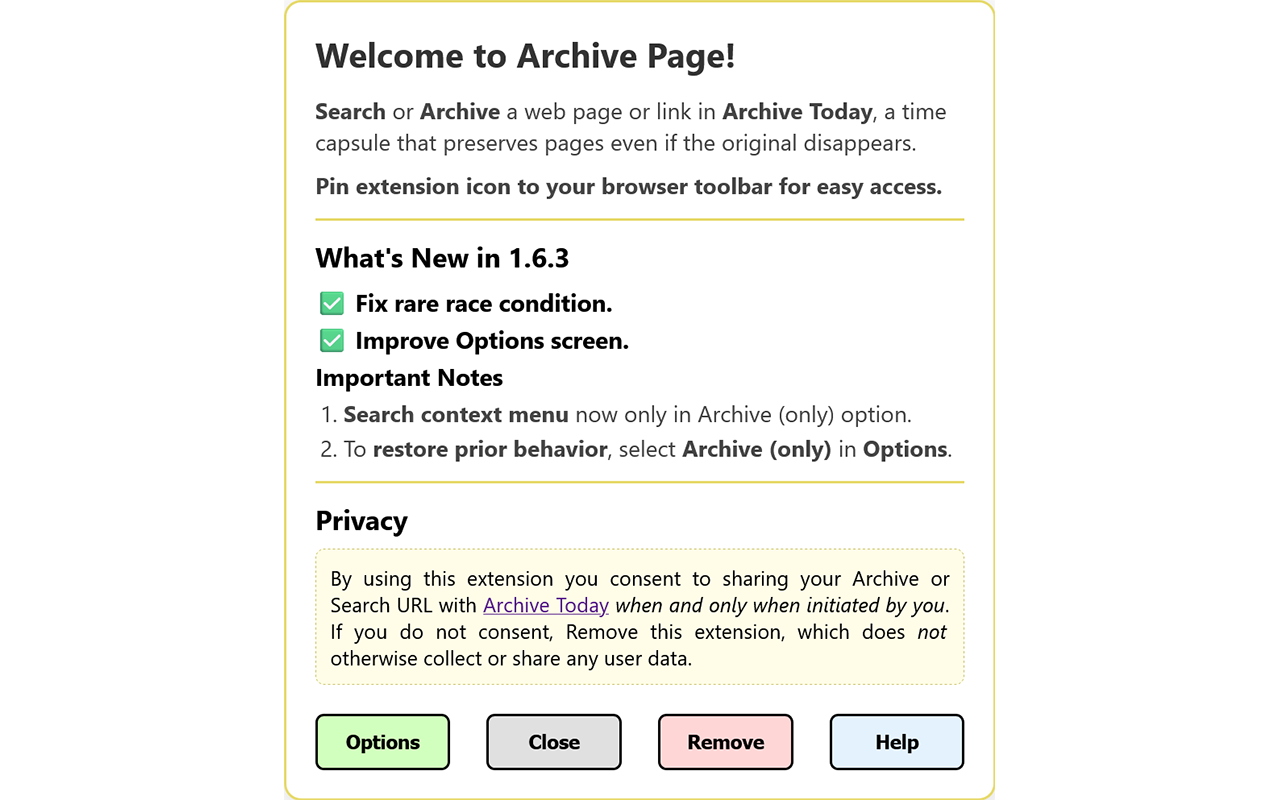
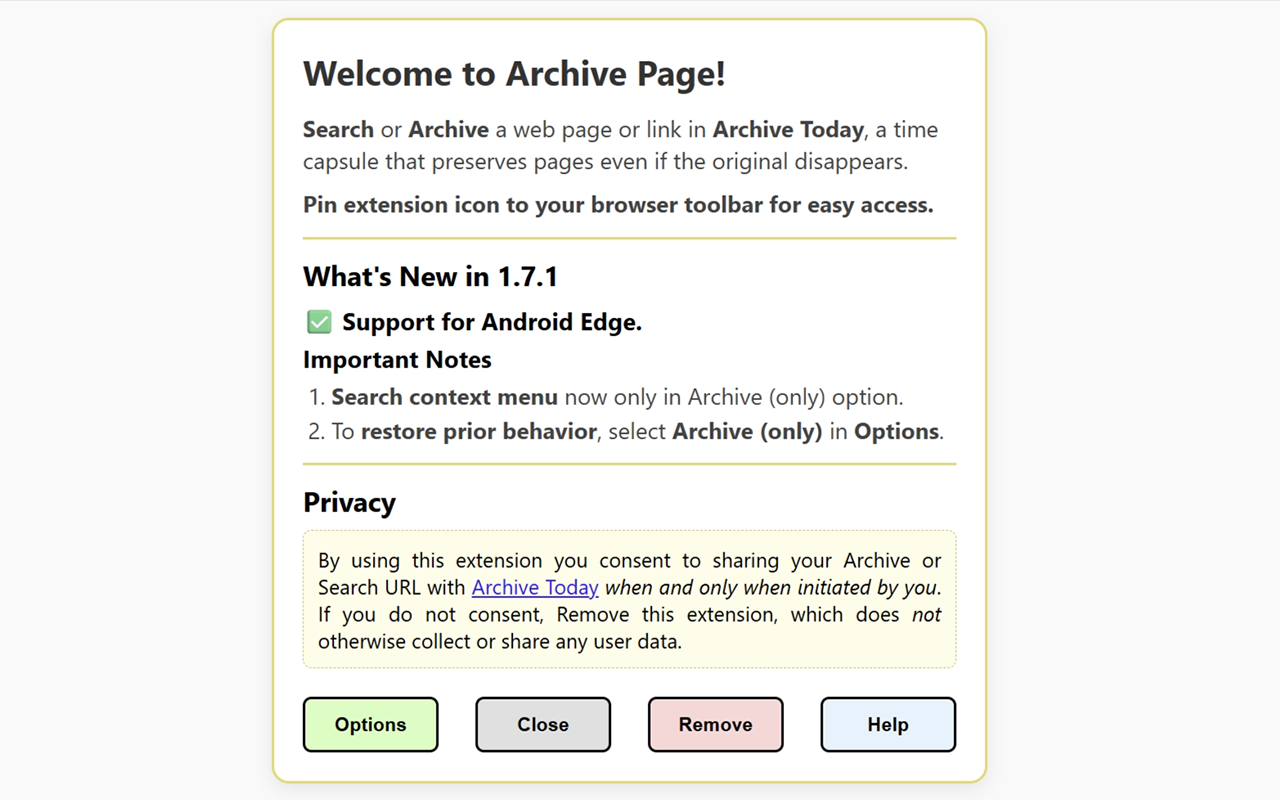
1.7.1
Minimize permissions

Changed region(s): [[0.1875, 0.0, 0.7812, 1.0]]

diff --git a/Chrome/options.js b/Chrome/options.js
@@ -29,7 +29,7 @@ async function restoreOptions() {
 
     const isAndroid = /\bAndroid\b/i.test(navigator.userAgent);
     if (isAndroid) {
-        ['sectionToolbarAction', 'sectionOpenIn', 'sectionActivate', 'sectionShortcuts'].forEach(id => {
+        ['sectionToolbarAction', 'sectionOpenIn', 'sectionActivate'].forEach(id => {
             const el = document.getElementById(id);
             if (el) el.disabled = true;
         });
@@ -50,17 +50,6 @@ async function restoreOptions() {
     // Restore Open In radios
     const tabId = Object.keys(MAP.tab).find(key => MAP.tab[key] === items.tabCtl);
     if (tabId) document.getElementById(tabId).checked = true;
-
-    // Sync the shortcut permission checkbox state
-    const hasTabs = await chrome.permissions.contains({ permissions: ['tabs'] });
-    const section = document.getElementById('sectionShortcuts');
-    const cbShortcuts = document.getElementById('cbShortcuts');
-    if (cbShortcuts) cbShortcuts.checked = hasTabs;
-
-    // Signal failed shortcut attempt if redirected via hash
-    if (!hasTabs && window.location.hash === "#shortcuts" && section) {
-        section.classList.add('signal-pulse');
-    }
 }
 
 async function saveOptions() {
@@ -78,28 +67,9 @@ async function saveOptions() {
 document.addEventListener('DOMContentLoaded', async () => {
     await restoreOptions();
 
-    // Exclude the permission checkbox from standard saveOptions
-    document.querySelectorAll('input:not(#cbShortcuts)').forEach(input => {
+    document.querySelectorAll('input').forEach(input => {
         input.addEventListener('change', saveOptions);
     });
-
-    // Special listener for optional permission toggle
-    const cbShortcuts = document.getElementById('cbShortcuts');
-    if (cbShortcuts) {
-        cbShortcuts.addEventListener('change', (e) => {
-            const section = document.getElementById('sectionShortcuts');
-            if (e.target.checked) {
-                chrome.permissions.request({ permissions: ['tabs'] }, (granted) => {
-                    if (granted && section) section.classList.remove('signal-pulse');
-                    else e.target.checked = false; // Reset if user cancels Chrome prompt
-                });
-            } else {
-                chrome.permissions.remove({ permissions: ['tabs'] }, () => {
-                    if (section) section.classList.remove('signal-pulse');
-                });
-            }
-        });
-    }
 
     document.getElementById('bReview').addEventListener('click', () => window.open('https://chromewebstore.google.com/detail/archive-page/gcaimhkfmliahedmeklebabdgagipbia/reviews', '_blank'));
     document.getElementById('bIssue').addEventListener('click', () => window.open('https://github.com/JNavas2/Archive-Page/issues', '_blank'));

diff --git a/Chrome/options.html b/Chrome/options.html
@@ -72,12 +72,6 @@
             background-color: var(--bg-domain);
         }
 
-        /* Signal failed shortcut highlight */
-        .signal-pulse {
-            border: 3px solid #fbc02d !important;
-            background-color: #fff9c4 !important;
-        }
-
         .responsive-flex {
             display: flex;
             align-items: center;
@@ -193,16 +187,6 @@
                 <label for="cbArchiveNew"><input id="cbArchiveNew" type="checkbox"> Archive link</label><br>
                 <label for="cbSearchNew"><input id="cbSearchNew" type="checkbox"> Search link</label>
             </div>
-        </fieldset>
-
-        <fieldset id="sectionShortcuts" style="background-color: #fff9c4;">
-            <legend>Direct Shortcuts</legend>
-            <label for="cbShortcuts" style="cursor: pointer; font-size: 0.95em;">
-                <input id="cbShortcuts" type="checkbox"> Enable direct Search/Archive keyboard shortcuts
-            </label>
-            <p style="font-size: 0.8em; margin: 2px 0 0 22px; color: #555;">
-                Requires optional Tab permission (read browsing history) to work.
-            </p>
         </fieldset>
 
         <fieldset class="section-domain">

diff --git a/Chrome/service_worker.js b/Chrome/service_worker.js
@@ -108,8 +108,6 @@ chrome.runtime.onMessage.addListener((m, sender, sendResponse) => {
             doAction(tabs[0].url, s.cbArchiveNew, "archive");
         }
     });
-
-    // No return true — port already closed cleanly.
 });
 
 chrome.storage.onChanged.addListener((c, area) => {
@@ -126,13 +124,6 @@ chrome.contextMenus.onClicked.addListener(async (info, tab) => {
 // Handle keyboard shortcuts
 if (chrome.commands) {
     chrome.commands.onCommand.addListener(async (command) => {
-        const hasTabs = await chrome.permissions.contains({ permissions: ['tabs'] });
-
-        if (!hasTabs) {
-            chrome.tabs.create({ url: chrome.runtime.getURL("options.html#shortcuts") });
-            return;
-        }
-
         // FIXED 3/3: lastFocusedWindow for full environment parity
         const tabs = await chrome.tabs.query({ active: true, lastFocusedWindow: true });
         if (!tabs[0] || !tabs[0].url) return;

diff --git a/Chrome/welcome.html b/Chrome/welcome.html
@@ -171,7 +171,7 @@
         <p><strong>Pin extension icon to your browser toolbar for easy access.</strong></p>
 
         <div class="divider">
-            <h2>What's New in 1.7.0</h2>
+            <h2>What's New in 1.7.1</h2>
             <h3>✅ Support for Android Edge.</h3>
             <h3>Important Notes</h3>
             <ol class="tight-list">
